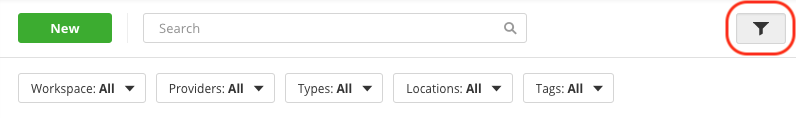
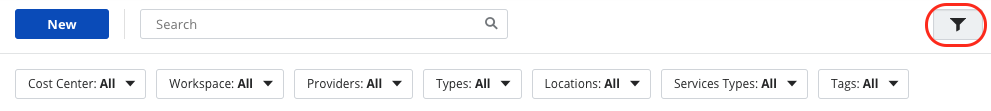
Add Service Types Filter

diff --git a/Cloud Application Manager/Deploying Anywhere/deploying-managing-instances.md b/Cloud Application Manager/Deploying Anywhere/deploying-managing-instances.md
@@ -89,14 +89,15 @@ There is a filter icon button next to the view types icon that makes visible all
 
 ![Instances view filters](../../images/cloud-application-manager/instances/instance-filters.png)
 
-These filters are dynamically filled with the valid values, allow multiple selections in values and are respectively:
+These filters are dynamically filled with the valid values, are hidden if there are no values in the current view and also allow multiple selections in values to be shown. The available filters are:
 
-* **Cost Center**: Filter by cost centers responsible for instances
+* **Cost Center**: Filter by cost centers responsible for instances. This filter is only available if you are at the Organization level scope.
 * **Workspace**: filter by any accessible workspace containing instances
 * **Providers**: filter by available provider types or providers
 * **Types**: filter by available types or subtypes
 * **Location**: filter by available location, including Global
 * **Tags**: filter by defined tags in instances
+* **Service Types**: filter by available service types (i.e., Linux Compute, Windows Compute, Azure Resource Manager Service, CloudFormation Service, etc.)
 
 Some of the filters, such as Providers and types, have two level of filtering (i.e., provider type and provider), allowing a mixed selection of levels. For example, you can select AWS provider type to show all AWS providers instances, and a specific Microsoft Azure provider to also show this provider instances in the same view.
 
